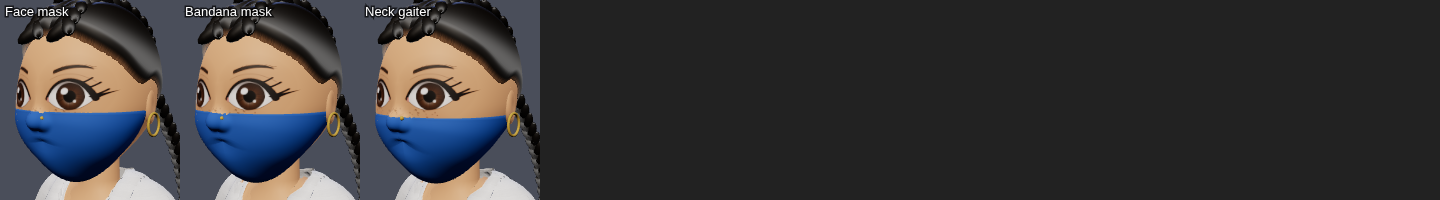
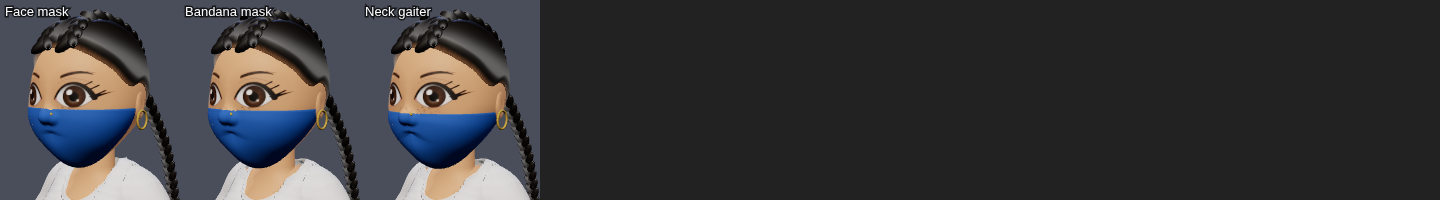
polish: blunter tousled clumps (no straw spikes), regenerated ref sheet, hair/hat grids, creator spin; PROGRESS flaws

Changed region(s): [[0.0, 0.0, 0.375, 1.0]]

diff --git a/src/mp/v2/hair.js b/src/mp/v2/hair.js
@@ -162,12 +162,12 @@ function buildTufts(head, st, thickAt, inside) {
   const P = (az, el, lift) => { const d = dirAE(az, el); const p = surf(head, d); const n = normalAt(head, p); return p.addScaledVector(n, (inside(d) ? thickAt(d) : .002) + lift); };
   const N = st.tufts; for (let i = 0; i < N; i++) { const h1 = hash(i * 3.1 + 1), h2 = hash(i * 7.7 + 2), h3 = hash(i * 1.3 + 5);
     let az0, el0, az1, el1, tipLift; // start (crown side) -> tip
-    if (i < N * .5) { const k = i / (N * .5); az0 = -55 + 110 * k + (h1 - .5) * 12; el0 = 70 + h2 * 8; az1 = az0 * .95 + 16 * st.sweep + (h3 - .5) * 18; el1 = 44 + h2 * 7 - Math.abs(az1) * .06; tipLift = .016 + .01 * h3; } // fringe: tips overhang the forehead
+    if (i < N * .5) { const k = i / (N * .5); az0 = -55 + 110 * k + (h1 - .5) * 12; el0 = 70 + h2 * 8; az1 = az0 * .95 + 16 * st.sweep + (h3 - .5) * 18; el1 = 44 + h2 * 7 - Math.abs(az1) * .06; tipLift = .009 + .006 * h3; } // fringe: tips overhang the forehead
     else if (i < N * .82) { const k = (i - N * .5) / (N * .32); const sd = k < .5 ? -1 : 1; az0 = sd * (45 + 55 * ((k * 2) % 1)) + (h1 - .5) * 10; el0 = 62 + h2 * 8; az1 = az0 + sd * (10 + 10 * h3); el1 = 36 + h2 * 8; tipLift = .004 + .004 * h3; } // sides
     else { const k = (i - N * .82) / (N * .18); az0 = -140 + 280 * k + (h1 - .5) * 20; el0 = 74 + h2 * 6; az1 = az0 * 1.05 + (h3 - .5) * 16; el1 = 48 + h3 * 10; tipLift = .004; } // crown / back
     const r = .011 + .005 * h2;
     const pts = [P(az0, el0, -r * .4), P(az0 + (az1 - az0) * .4, el0 + (el1 - el0) * .4, r * .15), P(az0 + (az1 - az0) * .78, el0 + (el1 - el0) * .78, tipLift * .5 + r * .1), P(az1, el1, tipLift)];
-    const [g] = tube(pts, r, .0016, { seg: 9, rad: 6, groove: .22, pow: .65 });
+    const [g] = tube(pts, r, .0032, { seg: 9, rad: 6, groove: .22, pow: .8, tipRound: 1 }); // blunter tips: thin needle tips read as straws in close-up
     { const pa = g.attributes.position, rad = 6, v = new THREE.Vector3(), c = new THREE.Vector3(); for (let ii = 0; ii <= 9; ii++) { c.set(0, 0, 0); for (let j = 0; j <= rad; j++) c.add(v.fromBufferAttribute(pa, ii * (rad + 1) + j)); c.multiplyScalar(1 / (rad + 1)); const n = c.clone().normalize();
       for (let j = 0; j <= rad; j++) { const id = ii * (rad + 1) + j; v.fromBufferAttribute(pa, id).sub(c); v.addScaledVector(n, -v.dot(n) * .5); v.add(c); pa.setXYZ(id, v.x, v.y, v.z); } } g.computeVertexNormals(); }
     out.push(g); }

diff --git a/docs/mp-chars-v2/PROGRESS.md b/docs/mp-chars-v2/PROGRESS.md
@@ -38,3 +38,19 @@ Goal: Bitmoji-style original guy + girl (refs: /workspace/keem-vids/ref_guy.jpg,
 - Hair cap 160x40 -> 128x36, braid lumps 12x8 -> 9x6 spheres.
 - Default looks: guy ~83k tris, girl ~91k tris (down from ~100k / ~122k).
 - Grids for tops/jackets/pants/shoes/hair/hats and the ref views were re-rendered after the pass.
+
+## Polish pass (Nov 19 2026, ~06:40 EST) — done
+- Heads 1.20x (guy) / 1.18x (girl), neck + shoulders unchanged; creator/grid cameras reframed.
+- Guy beard: lighter brown, wispy skin-blended edge + stubble halo on cheeks, separate mustache over the open smile.
+- Guy hair: 26 tousled clumps (blunt tips, no straw spikes), natural temples + sideburns; clumps removed under hats.
+- Cargo joggers: baggier, real side pockets, blousing at shin, tight cuffs; tops now cover the waistband.
+- Separated fingers on both base bodies (rings follow the finger).
+- Girl: neck triangles kept so the analytic neck hole cuts the collar smoothly; dress closes between the legs, hip line gone.
+- Perf: guy ~86k tris, girl ~91k tris. Run/roll checked, limbs intact.
+
+### Honest flaws left
+- Guy forehead hairline is still a fairly crisp edge with small steps, not a true soft fade.
+- Beard underside reads as a rounded solid edge against the neck in close-up; small dark specks at the shirt neckline sides.
+- Girl's jacket collar edge is smoother but still slightly wavy up close; a faint tone step where the head neck meets the body neck.
+- Wide-brim hats (bucket/sun/western) have thin, slightly see-through brims; hard hat shows a stray thin red strip.
+- Fingers are separated but sit close together and are fairly straight (no knuckle detail).
